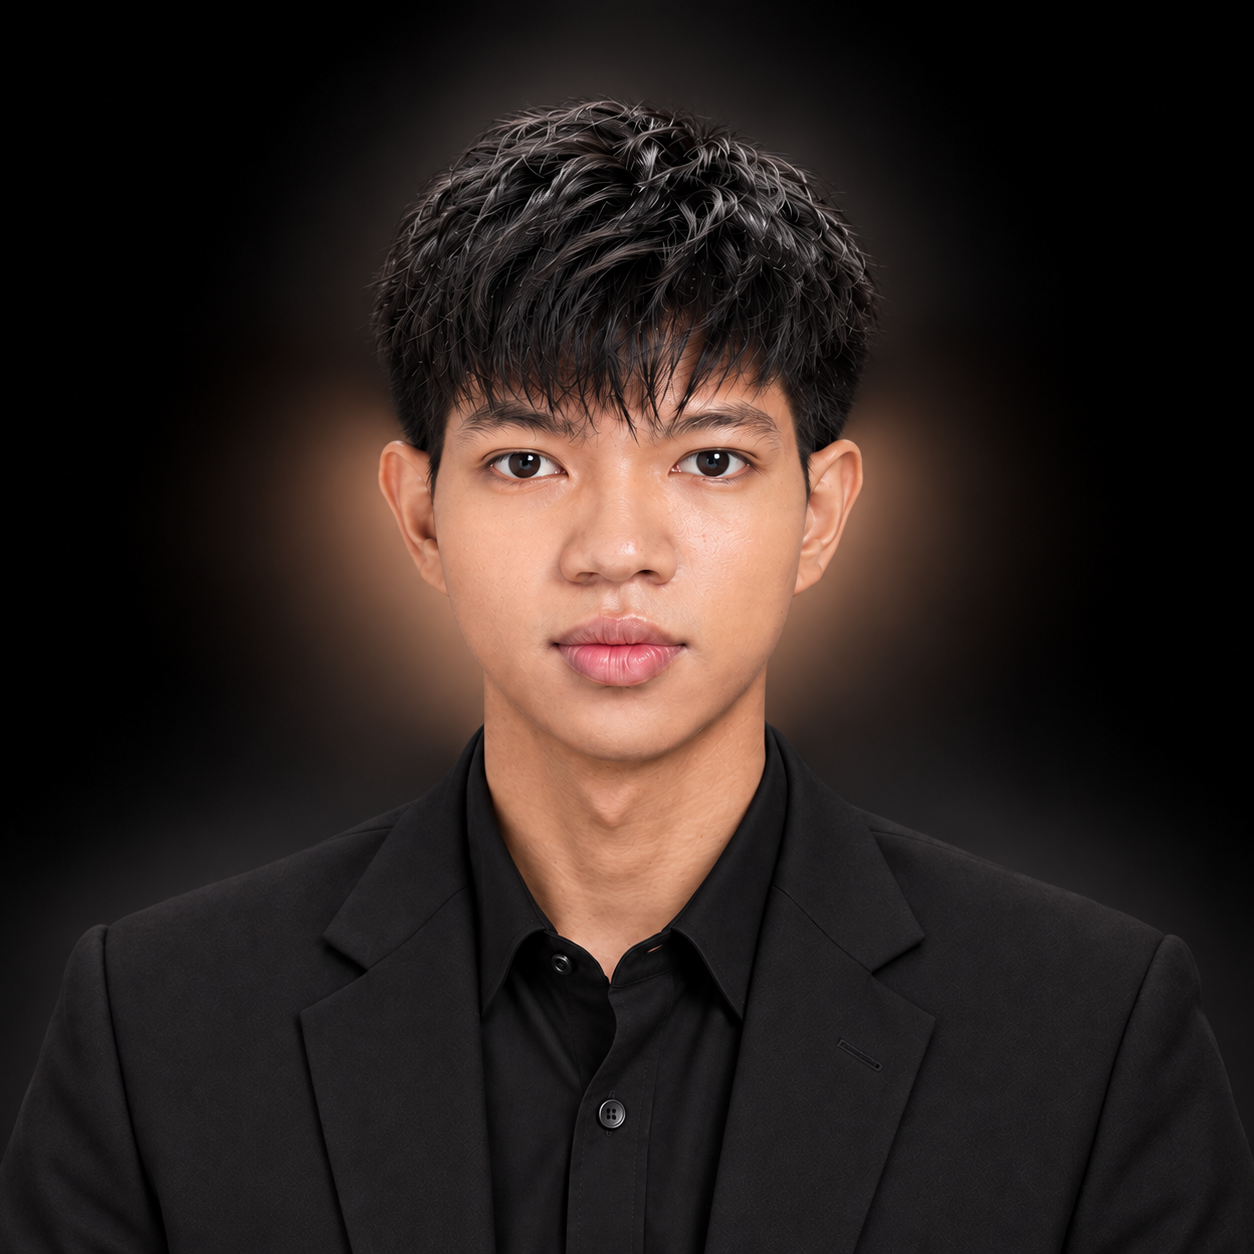
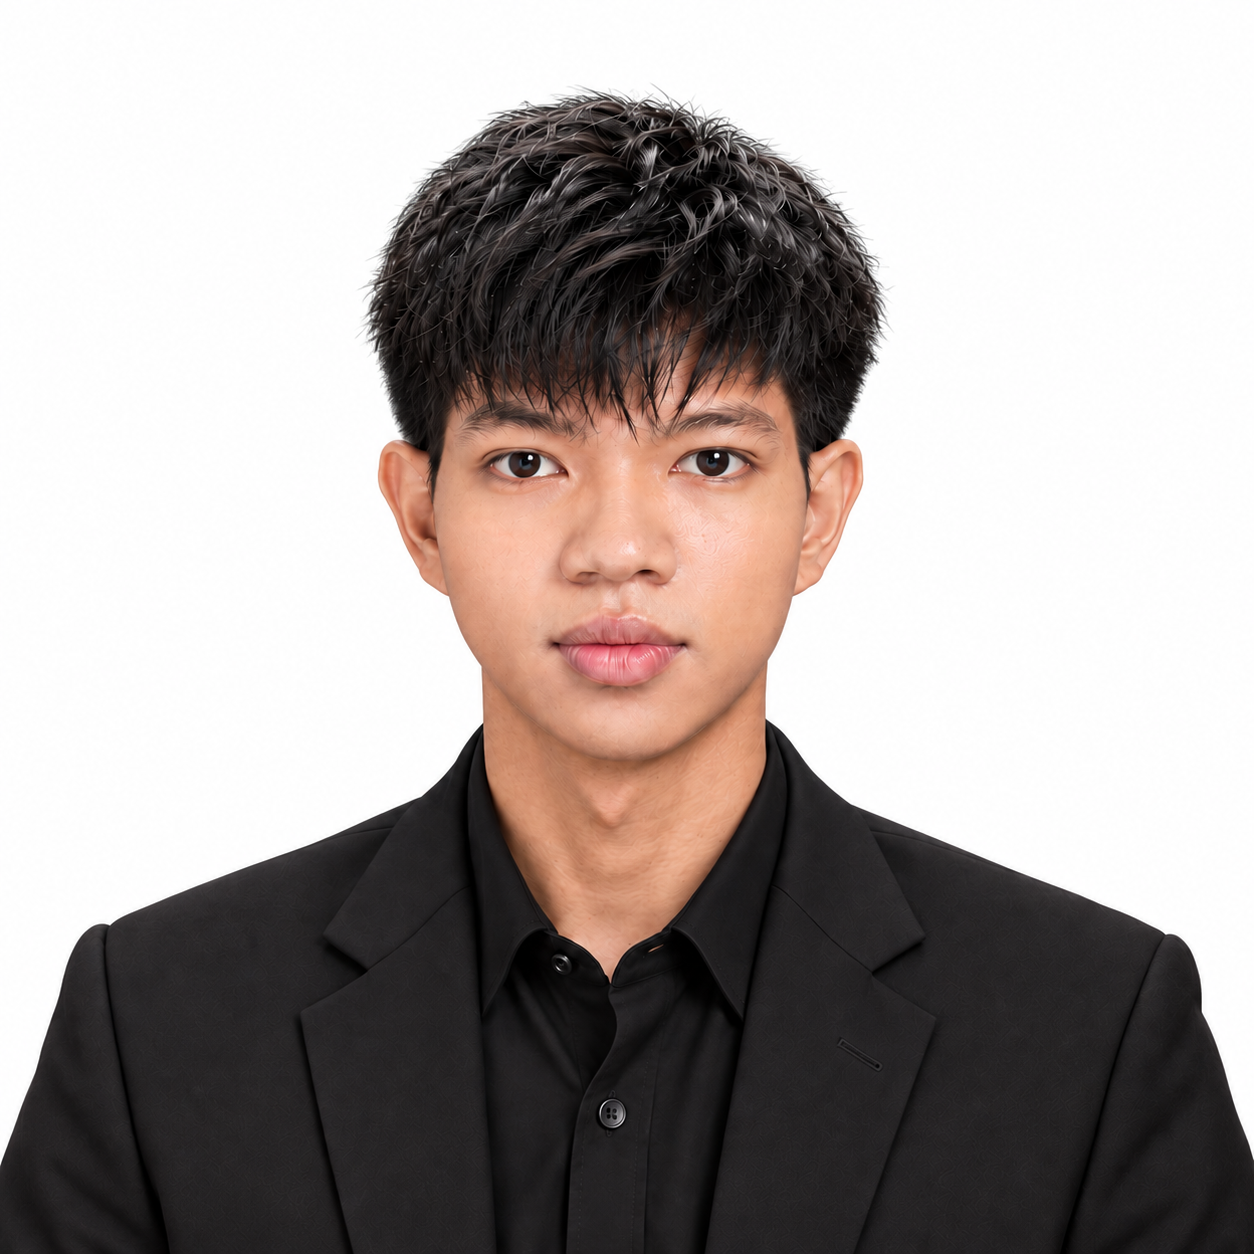
feat: update homepage metadata

diff --git a/components/home/Hero.tsx b/components/home/Hero.tsx
@@ -61,14 +61,14 @@ function Portrait({ className = "" }: { className?: string }) {
       <div
         role="img"
         aria-label="Portrait placeholder"
-        className={`relative z-10 h-[460px] w-full self-center bg-surface-hover sm:h-[580px] min-[960px]:max-[1023px]:h-[min(80svh,62vw)] min-[960px]:max-[1023px]:self-end min-[1024px]:h-[min(80svh,720px)] ${className}`}
+        className={`relative z-10 h-[460px] w-full self-center bg-surface-hover sm:h-[580px] min-[960px]:max-[1023px]:h-[min(80svh,62vw)] min-[960px]:self-end min-[1024px]:h-[min(80svh,720px)] ${className}`}
       />
     );
   }
 
   return (
     <div
-      className={`relative z-10 h-[460px] w-full self-center sm:h-[580px] min-[960px]:max-[1023px]:h-[min(80svh,62vw)] min-[960px]:max-[1023px]:self-end min-[1024px]:h-[min(80svh,720px)] ${className}`}
+      className={`relative z-10 h-[460px] w-full self-center sm:h-[580px] min-[960px]:max-[1023px]:h-[min(80svh,62vw)] min-[960px]:self-end min-[1024px]:h-[min(80svh,720px)] ${className}`}
     >
       <div
         aria-hidden="true"
@@ -80,7 +80,7 @@ function Portrait({ className = "" }: { className?: string }) {
         src={portraitPath}
         alt={"Portrait of " + profile.name}
         fill
-        className="portrait-silhouette-glow z-10 object-contain object-center min-[960px]:max-[1023px]:object-bottom"
+        className="portrait-silhouette-glow z-10 object-contain object-center min-[960px]:object-bottom"
         sizes="(min-width: 1280px) 540px, (min-width: 960px) 42vw, (min-width: 640px) 500px, 100vw"
         preload
       />

diff --git a/app/skills/page.tsx b/app/skills/page.tsx
@@ -266,7 +266,7 @@ export default function SkillsPage() {
             </p>
           </header>
 
-          <ul className="mt-6 flex flex-wrap gap-2.5">
+          <ul className="mt-5 flex flex-wrap gap-2.5 border-t border-border pt-5">
             {professionalSkills.map((skill) => (
               <li
                 key={skill.name}
@@ -292,7 +292,7 @@ export default function SkillsPage() {
             </p>
           </header>
 
-          <dl className="mt-6 grid grid-cols-2 gap-2.5">
+          <dl className="mt-5 grid grid-cols-2 gap-2.5 border-t border-border pt-5">
             {languages.map((language) => (
               <div
                 key={language.name}
